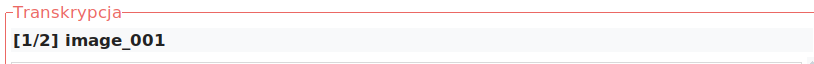
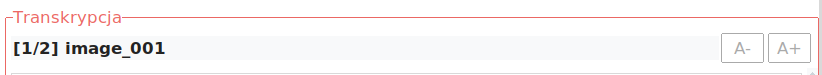
poprawki

Changed region(s): [[0.0, 0.0, 1.0, 1.0], [0.0, 0.5312, 0.215, 0.7812]]

diff --git a/src/scan_transcript_manager.py b/src/scan_transcript_manager.py
@@ -1,6 +1,8 @@
 """ przeglądarka skanów i transkrypcji """
 import os
+import json
 import threading
+from pathlib import Path
 import tkinter as tk
 from tkinter import filedialog, messagebox
 from PIL import Image, ImageTk
@@ -13,6 +15,7 @@ from google import genai
 from google.genai import types
 
 
+# ------------------------------- CLASS ----------------------------------------
 class ManuscriptEditor:
     """ główna klasa aplikacji """
     def __init__(self, root):
@@ -26,6 +29,11 @@ class ManuscriptEditor:
         self.current_folder_var = tk.StringVar(value="Nie wybrano katalogu")
 
         self._init_environment()
+
+        self.config_file = "config.json"
+        self.font_family = "Consolas"
+        self.font_size = 12
+        self.load_config()
 
         self.file_pairs = []
         self.current_index = 0
@@ -102,16 +110,30 @@ class ManuscriptEditor:
                                            bootstyle="primary")
         self.editor_frame.pack(fill=BOTH, expand=True, padx=(5,0))
 
+        self.editor_header = ttk.Frame(self.editor_frame)
+        self.editor_header.pack(fill=X, padx=5, pady=5)
+
         # informacja o pliku
         self.file_info_var = tk.StringVar(value="Brak pliku")
-        ttk.Label(self.editor_frame,
+        ttk.Label(self.editor_header,
                   textvariable=self.file_info_var,
                   font=("Segoe UI", 10, "bold"),
-                  bootstyle="inverse-light").pack(fill=X, padx=5, pady=5)
+                  bootstyle="inverse-light").pack(side=LEFT, fill=X, expand=True)
+
+		# przyciski zmiany fontu
+        font_frame = ttk.Frame(self.editor_header)
+        font_frame.pack(side=RIGHT)
+
+        ttk.Button(font_frame, text="A-", command=lambda: self.change_font_size(-1),
+                   bootstyle="outline-secondary", width=3, padding=2).pack(side=LEFT, padx=2)
+        ttk.Button(font_frame, text="A+", command=lambda: self.change_font_size(1),
+                   bootstyle="outline-secondary", width=3, padding=2).pack(side=LEFT, padx=2)
 
         # pole tekstowe z paskiem przewijania
         self.text_scroll = ttk.Scrollbar(self.editor_frame, orient=VERTICAL)
-        self.text_area = tk.Text(self.editor_frame, font=("Consolas", 12), wrap=WORD, undo=True,
+        self.text_area = tk.Text(self.editor_frame,
+                                 font=(self.font_family, self.font_size),
+                                 wrap=WORD, undo=True,
                                  bg="#333333", fg="white", insertbackground="white",
                                  yscrollcommand=self.text_scroll.set, bd=0, width=1)
 
@@ -201,24 +223,87 @@ class ManuscriptEditor:
         self.select_folder()
 
 
+    def load_config(self):
+        """ wczytywanie ustawień z pliku JSON """
+        config_path = Path('..') / 'config' / self.config_file
+        if config_path.exists():
+            try:
+                with open(config_path, 'r', encoding='utf-8') as f:
+                    config = json.load(f)
+                    self.font_size = config.get("font_size", 12)
+
+                    # optional api key in config file
+                    if not self.api_key:
+                        self.api_key = config.get("api_key", "")
+            except Exception as e:
+                print(f"Błąd wczytywania pliku konfiguracyjnego: {e}")
+
+
+    def save_config(self):
+        """ zapisywanie ustawienia do pliku JSON """
+        config_path = Path('..') / 'config' / self.config_file
+        if config_path.exists():
+            with open(config_path, 'r', encoding='utf-8') as f:
+                config = json.load(f)
+                config["font_size"] = self.font_size
+        else:
+            config = {
+                "font_size": self.font_size,
+                "api_key": ""
+            }
+
+        try:
+            with open(config_path, 'w', encoding='utf-8') as f:
+                json.dump(config, f)
+        except Exception as e:
+            print(f"Błąd zapisu pliku konfiguracyjnego: {e}")
+
+
+    def change_font_size(self, delta):
+        """ zmiana rozmiar fontu edytora i zapis do pliku z configiem """
+        new_size = self.font_size + delta
+        if new_size < 6:
+            new_size = 6
+        if new_size > 72:
+            new_size = 72
+
+        self.font_size = new_size
+        self.text_area.configure(font=(self.font_family, self.font_size))
+
+        self.save_config()
+
+
+    def on_text_zoom(self, event):
+        """ zmiana rozmaru fontu"""
+        delta = 0
+        if event.num == 5 or event.delta < 0:
+            delta = -1
+        elif event.num == 4 or event.delta > 0:
+            delta = 1
+
+        self.change_font_size(delta)
+        return "break"
+
+
     def _init_environment(self):
         """ ładowanie zmiennych środowiskowych i promptu """
         load_dotenv()
 
         self.api_key = os.environ.get("GEMINI_API_KEY")
 
-        prompt_path = "../prompt/prompt_handwritten_pol_xx_century.txt"
+        self.prompt_filename_var.set("Prompt: Brak (wybierz plik)")
+
+        default_prompt = "prompt_handwritten_pol_xx_century.txt"
+        prompt_path = Path('..') / "prompt" / default_prompt
         if os.path.exists(prompt_path):
             try:
                 with open(prompt_path, 'r', encoding='utf-8') as f:
                     self.prompt_text = f.read()
-                filename = os.path.basename(prompt_path)
-                self.prompt_filename_var.set(f"Prompt: {filename}")
+                self.prompt_filename_var.set(f"Prompt: {default_prompt}")
             except Exception as e:
-                messagebox.showerror("Błąd", f"Nie można wczytać {filename}: {e}", parent=self.root)
+                messagebox.showerror("Błąd", f"Nie można wczytać {default_prompt}: {e}", parent=self.root)
         else:
             messagebox.showerror("Przed użyciem Gemini wskaż plik z promptem.", str(e), parent=self.root)
-        self.prompt_filename_var.set("Prompt: Brak (wybierz plik)")
 
 
     def select_folder(self):
@@ -226,7 +311,7 @@ class ManuscriptEditor:
         if self.is_transcribing:
             return
 
-        initial_dir = os.getcwd() # domyślnie obecny katalog
+        initial_dir = os.getcwd() # domyślnie bieżący katalog
 
         folder_path = filedialog.askdirectory(
             title="Wybierz folder ze skanami",
@@ -261,7 +346,7 @@ class ManuscriptEditor:
                 })
 
             if not self.file_pairs:
-                messagebox.showinfo("Info", "Brak obrazów w folderze.", parent=self.root)
+                messagebox.showinfo("Info", "Brak skanów w folderze.", parent=self.root)
                 self.original_image = None
                 self.canvas.delete("all")
                 self.text_area.delete(1.0, tk.END)
@@ -341,8 +426,10 @@ class ManuscriptEditor:
 
     def select_prompt_file(self):
         """ okno dialogowe wyboru pliku promptu """
+        prompt_path = Path('..') / 'prompt'
         filename = filedialog.askopenfilename(
             title="Wybierz plik z promptem",
+            initialdir=prompt_path,
             filetypes=[("Pliki tekstowe", "*.txt"), ("Wszystkie pliki", "*.*")],
             parent=self.root
         )
@@ -725,7 +812,7 @@ class ManuscriptEditor:
 
 
     def _batch_worker(self, selected_indices, window, btn_start):
-        """ Wątek przetwarzający listę plików """
+        """ wątek przetwarzający listę plików """
         total = len(selected_indices)
         errors = 0
 
@@ -825,7 +912,7 @@ class ManuscriptEditor:
 
         if not self.api_key:
             messagebox.showerror("Błąd konfiguracji",
-                                 "Brak klucza GEMINI_API_KEY w pliku .env",
+                                 "Brak klucza GEMINI_API_KEY w pliku .env lub w config.json",
                                  parent=self.root)
             return
 

diff --git a/README.md b/README.md
@@ -1,8 +1,8 @@
 # scans_transcripts
 
-A simple scan and transcription viewer with the option of reading scans using the Gemini Pro 3 model (using this model via API is subject to a fee) and the ability to manually correct transcriptions. The application has the ability to prepare transcriptions for a series of files, but in addition, a script (to be run from the console) for reading the entire series of scans by the Gemini Pro 3 model has also been prepared. The Gemini API key should be saved in the .env file as the GEMINI_API_KEY environment variable.
+A simple scan and transcription viewer with the option of reading scans using the Gemini Pro 3 model (using this model via API is subject to a fee) and the ability to manually correct transcriptions. The application has the ability to prepare transcriptions for a series of files, but in addition, a script (to be run from the console) for reading the entire series of scans by the Gemini Pro 3 model has also been prepared. The Gemini API key should be stored in the `.env` file as the `GEMINI_API_KEY` environment variable (or in the `config/config.json` file under the `api_key` field).
 
-## Screenshots:
+## Screenshots and description:
 
 Application window with a visible enlargement of the fragment (magnifying glass):
 
@@ -18,7 +18,7 @@ Above the text field in the right panel of the application, there's a bar with t
 
 ![Screen](/doc/images_folder.png)
 
-Below there is a bar with information about the current (displayed) scan file: its name and sequence number in the series, and the number of all scans in the folder.
+Below there is a bar with information about the current (displayed) scan file: its name and sequence number in the series, and the number of all scans in the folder. On the right side there are 'A+' and 'A-' buttons that can be used to adjust the font size in the text field.
 
 ![Screen](/doc/image_info.png)
 
